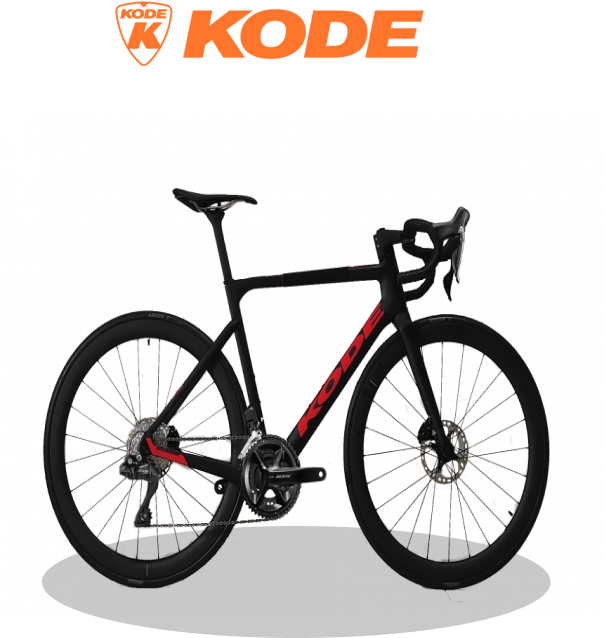
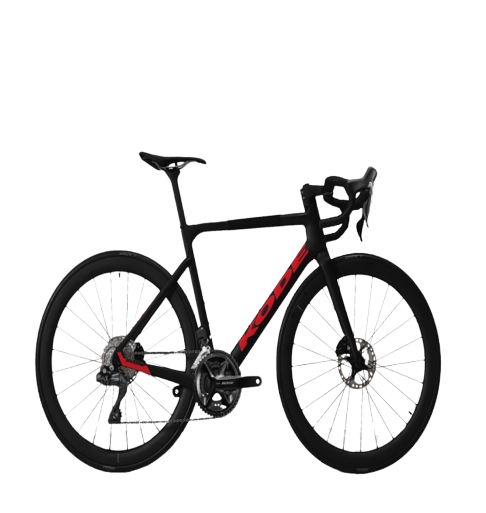
Tarefas_Claudia
Acrescentado:
Imagens sem fundo das Bikes
Componentes: Carousel e Footer
Alterado cor do hover da Navbar
acrescentado componentes na Pagina Home
Removido: imagens com fundos brancos
Projeto testado esta rodando.
Por gentileza aprovar branche
@itsmorais
@Jummanso
@abnercosta97

diff --git a/front-end/src/pages/Home/index.tsx b/front-end/src/pages/Home/index.tsx
@@ -1,15 +1,39 @@
+import { register } from 'swiper/element/bundle'
 import styles from '../Home/Home.module.css'
-import Bike4you from '../../assets/bike4you_home.jpg'
-function Home() {
+import bike4you from "../../assets/bike4you_home.jpg"
+import kode from "../../assets/Img_Marca_kode.jpg"
+import { Carousel } from '../../components/Carousel/Carousel'
+import { Card } from '../../components/Card/Card'
+
+register();
+
+export default function Home() {
   return (
-    <div className={styles.home_container}>
-      <h1>
-        Bem-vindo ao <span>Bike4You</span>
-      </h1>
-      <p>Alugue agora mesmo a sua bicicleta!</p>
-      <img src={Bike4you} alt="bike4you" />
+
+    <>
+   
+      <div className={styles.home_container}>
+        <img src={bike4you} alt="bike4you"></img>
+        <h1> Plataforma <span>Peer-to-Peer</span>
+        </h1>
+        <p>O Bike 4 You é uma revolucionária plataforma de aluguel de bicicletas que une apaixonados por ciclismo e entusiastas de aventuras ao ar livre. Nossa comunidade conecta locatários em busca de uma experiência de pedal incrível a locadores que desejam compartilhar suas bicicletas de qualidade com outros entusiastas.
+        </p>
+      </div>
+
+      <div className={styles.home_carousel}>
+        <div>
+          <img src={kode} alt="kode"></img>
+        </div>
+        <div>
+          <Carousel />
+        </div>
+        <div>
+          <Card />
+        </div>
+      
+
     </div>
+     
+    </>
   );
 }
-
-export default Home;

diff --git a/front-end/src/components/Carousel/Carousel.tsx b/front-end/src/components/Carousel/Carousel.tsx
@@ -1,0 +1,42 @@
+import styles from "../Carousel/Carousel.module.css"
+import { Swiper, SwiperSlide } from 'swiper/react'
+import { register } from 'swiper/element/bundle'
+import bike1 from "../../assets/bike1.jpg"
+import bike2 from "../../assets/bike2.jpg"
+import bike3 from "../../assets/bike3.jpg"
+import 'swiper/css';
+import 'swiper/css/navigation';
+import 'swiper/css/pagination';
+import 'swiper/css/scrollbar';
+
+
+register();
+
+export function Carousel() {
+    const data = [
+        { id: 'Bike1', image: bike1 },
+        { id: 'Bike2', image: bike2 },
+        { id: 'Bike3', image: bike3 },
+    ];
+    return (
+
+        <div className={styles.carousel}>
+        <Swiper
+            slidesPerView={1}
+            pagination={{ clickable: true }}
+            navigation
+        >
+            {data.map((item) => (
+
+                <SwiperSlide key={item.id}>
+                    <img
+                        src={item.image}
+                        alt="Slider"                    
+                    />
+                </SwiperSlide>
+            ))}
+        </Swiper>
+        </div>
+
+    );
+}

diff --git a/front-end/src/pages/Home/Home.module.css b/front-end/src/pages/Home/Home.module.css
@@ -1,21 +1,29 @@
 .home_container {
     background-color: #2F2F2F;
-    width: 100%;
-    display: flex;
-    flex-direction: column;
-    align-items: left;
-    justify-content: center;
+    width: 40%;
     padding: 4em;
+    display: inline-block;
+    justify-content: space-between;
+
+  }
+
+  .home_carousel{
+  width: 30%;
+  height: 10%;
+  margin-top: 5%;
+  display: inline-block;
+  justify-content: space-between;
   }
   
   .home_container h1 {
+    font-family: 'Urbanist', sans-serif;
     font-size: 2.5em;
     margin-bottom: 0.5em;
     color: #ffffff;
   }
   
   .home_container h1 span {
-    color: #1232A4;
+    color: #ffbb33;
     padding: 0 0.2em;
    
   }

diff --git a/front-end/src/components/Footer/Footer.module.css b/front-end/src/components/Footer/Footer.module.css
@@ -1,0 +1,35 @@
+.footer {
+    background-color: #F2F2F2;
+    color: #2F2F2F;
+    padding: 3em;
+    text-align: center;
+  }
+  
+  .social_list {
+    display: flex;
+    justify-content: center;
+    list-style-type: none;
+  }
+  
+  .social_list li {
+    margin: 0 1em;
+  }
+  
+  .social_list li:hover {
+    color: #1232A4;
+  }
+  
+  .social_list svg {
+    font-size: 1.5em;
+    cursor: pointer;
+  }
+  
+  .copy_right {
+    margin-top: 2em;
+  }
+  
+  .copy_right span {
+    font-weight: bold;
+    color: #1232A4;
+  }
+  

diff --git a/front-end/src/components/Footer/Fotter.tsx b/front-end/src/components/Footer/Fotter.tsx
@@ -1,0 +1,25 @@
+import { FaFacebook, FaInstagram, FaLinkedin } from 'react-icons/fa'
+import styles from './Footer.module.css'
+
+function Footer() {
+  return (
+    <footer className={styles.footer}>
+      <ul className={styles.social_list}>
+        <li>
+          <FaFacebook />
+        </li>
+        <li>
+          <FaInstagram />
+        </li>
+        <li>
+          <FaLinkedin />
+        </li>
+      </ul>
+      <p className={styles.copy_right}>
+     
+      </p>
+    </footer>
+  )
+}
+
+export default Footer

diff --git a/front-end/src/routes/index.tsx b/front-end/src/routes/index.tsx
@@ -3,6 +3,7 @@ import { AppRoutes } from './app.routes';
 import { AuthRoutes } from './auth.routes';
 import { useAuth } from '../hooks/auth';
 import Navbar from '../components/Navbar/Navbar';
+import Footer from '../components/Footer/Fotter';
 
 
 export function Routes() {
@@ -13,6 +14,10 @@ export function Routes() {
             <Navbar />
 
             {user ? <AppRoutes /> : <AuthRoutes />}
+
+            <Footer/>
+            
         </BrowserRouter >
+        
     )
 }

diff --git a/front-end/src/pages/Cadastro/index.tsx b/front-end/src/pages/Cadastro/index.tsx
@@ -1,7 +1,7 @@
 import { useEffect, useState } from "react";
 import { FaSave } from 'react-icons/fa';
 import CadastrarBike from "../../controllers/cadastrarBike";
-import exemploimg from "../../assets/image2.png"
+import exemploimg from "../../assets/bike2.jpg"
 import { Box, Container, Form, ImageContainer, Input, SelectContainer, TextArea} from "./styles";
 //import { Button } from "../../components/button";
 import buscarMarcas, { Brand } from "../../controllers/buscarMarcas";

diff --git a/front-end/src/routes/app.routes.tsx b/front-end/src/routes/app.routes.tsx
@@ -6,9 +6,9 @@ import NotFound from "../pages/404";
 export function AppRoutes() {
     return (
         <Routes>
-        <Route path="/" element={<Home />} />
-        <Route path="/gerenciamento" element={<Cadastro />} />
-        <Route path="*" element={<NotFound/>}/>
+            <Route path="/" element={<Home />} />
+            <Route path="/gerenciamento" element={<Cadastro />} />
+            <Route path="*" element={<NotFound />} />
 
         </Routes>
     )

diff --git a/front-end/src/components/Card/Card.tsx b/front-end/src/components/Card/Card.tsx
@@ -1,0 +1,13 @@
+import bike4you from "../../assets/bike4you_home.jpg"
+
+export function Card() {
+    return (
+        <>
+    <p>Exemplo de espaco para Card </p>
+    <div>
+          <img src={bike4you} alt="bike4you" />
+          </div>
+          </>
+    )
+}
+

diff --git a/front-end/src/components/Navbar/Navbar.module.css b/front-end/src/components/Navbar/Navbar.module.css
@@ -25,7 +25,7 @@
 }
 
 .item a:hover {
-  color: #1232A4;
+  color: #ffbb33;
   text-decoration: none;
 }
 .item a:active{

diff --git a/front-end/src/components/Carousel/Carousel.module.css b/front-end/src/components/Carousel/Carousel.module.css
@@ -1,0 +1,4 @@
+.carousel{
+    width: 100%;
+    background-color: #2F2F2F;
+}
